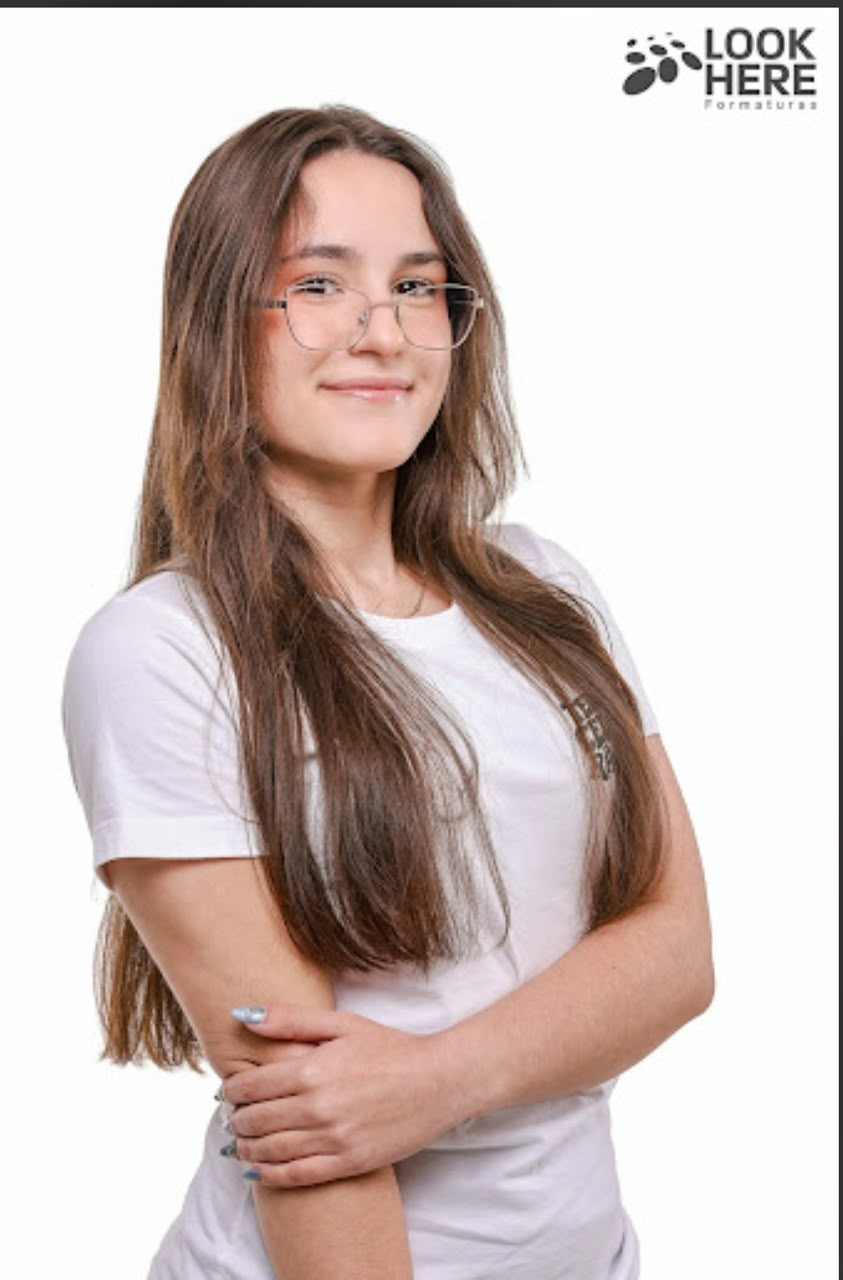
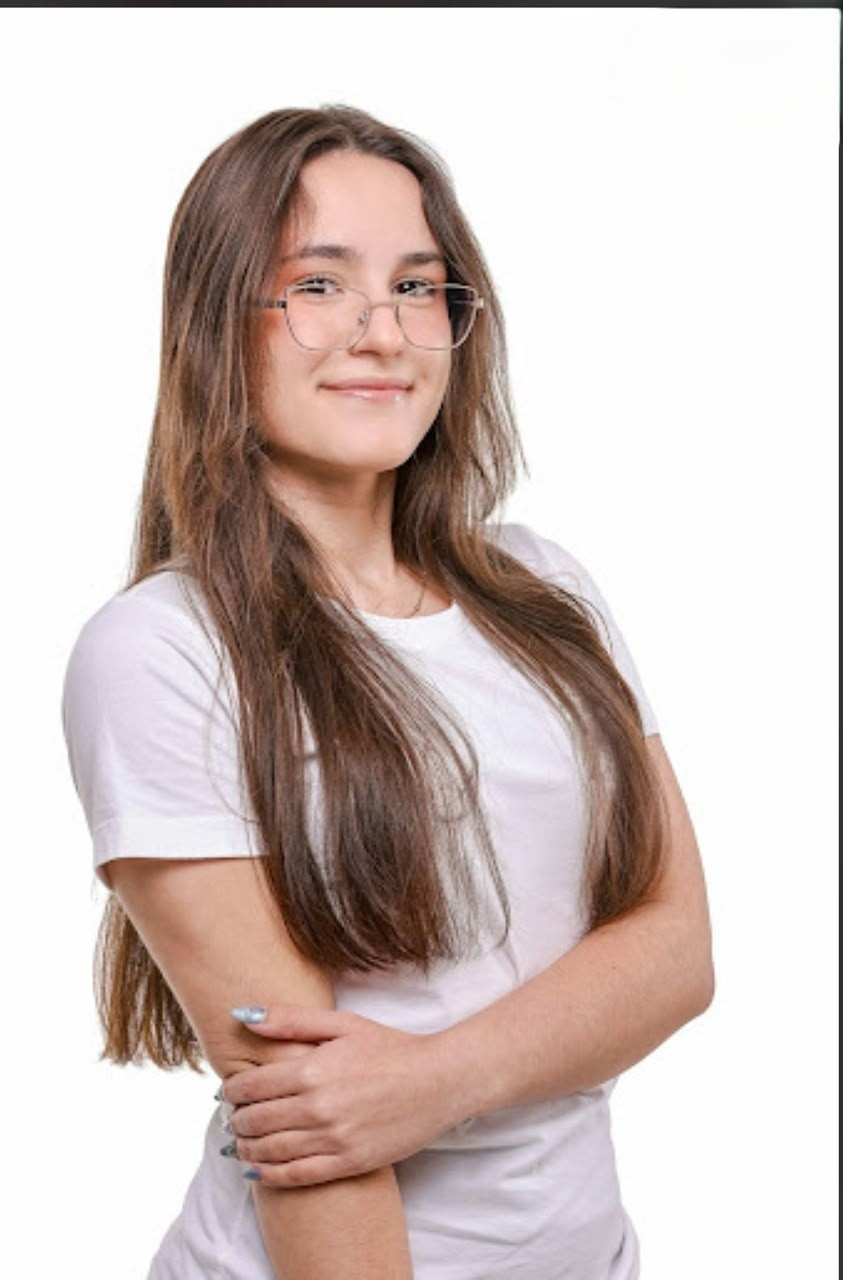
style - padronização das imagens e remoção de elementos poluentes

Changed region(s): [[0.7402, 0.0, 1.0, 0.125], [0.6785, 0.5312, 0.7402, 0.625]]

diff --git a/infra/conexao.php b/infra/conexao.php
@@ -1,9 +1,9 @@
 <?php
 $servidor = "localhost";
 $usuario = "root";
-$senha = "";
 $banco = "mockingrail";
-$porta = 3309;
+$porta = 3306;
+$senha = '';
 
 $conn = new mysqli($servidor, $usuario, $senha, $banco, $porta);
 

diff --git a/public/inicio/historia.php b/public/inicio/historia.php
@@ -71,4 +71,4 @@
     </main>
 
 </body>
-</html>
+</html> 
